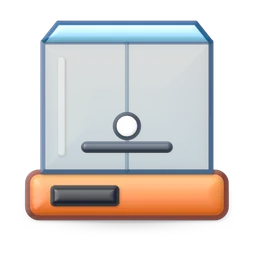
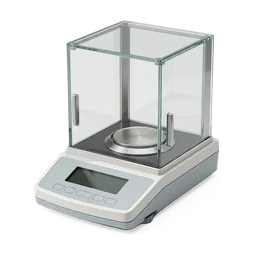
Metrología 8.17.1: prueba piloto de íconos fotorrealistas (12 imágenes del pedido 2)

diff --git a/index.html b/index.html
@@ -19,7 +19,7 @@
 
   <!-- Rutas relativas: la app también se sirve en /metrologia/ dentro del Portal Pet's Table -->
   <link rel="apple-touch-icon" sizes="180x180" href="apple-touch-icon.png?v=21">
-  <meta http-equiv="Content-Security-Policy" content="default-src 'self'; script-src 'self' https://cdn.jsdelivr.net 'sha256-lzPcFyYIS7av1YAhNWYUOF3WBxHlvObTNGr4PGUKEmE=' 'sha256-ypZDX7RgYxLFlG0fEPtoLCmPoX9tPBw+fcst6fOuLV4=' 'sha256-4Xsk8XhJlKm5WccR4HSZxXAB9xIjj3XGUJ2RqzLsJ/w='; style-src 'self' 'unsafe-inline' https://fonts.googleapis.com; font-src https://fonts.gstatic.com; img-src 'self' data: blob: https://portal-petstable.vercel.app https://domumnsezocubigfqwry.supabase.co; connect-src 'self' https://domumnsezocubigfqwry.supabase.co wss://domumnsezocubigfqwry.supabase.co; manifest-src 'self'; worker-src 'self'; base-uri 'self'; form-action 'self'; object-src 'none'">
+  <meta http-equiv="Content-Security-Policy" content="default-src 'self'; script-src 'self' https://cdn.jsdelivr.net 'sha256-lzPcFyYIS7av1YAhNWYUOF3WBxHlvObTNGr4PGUKEmE=' 'sha256-F4/N08epxz46vGhaYrOxvSsE4tT/3oseyebe8mpZI8Y=' 'sha256-OXhE6A+xwP8Xc3kfOZoIZx3mbXzraAYWJs1U9Eiuueg='; style-src 'self' 'unsafe-inline' https://fonts.googleapis.com; font-src https://fonts.gstatic.com; img-src 'self' data: blob: https://portal-petstable.vercel.app https://domumnsezocubigfqwry.supabase.co; connect-src 'self' https://domumnsezocubigfqwry.supabase.co wss://domumnsezocubigfqwry.supabase.co; manifest-src 'self'; worker-src 'self'; base-uri 'self'; form-action 'self'; object-src 'none'">
[1 lines of base64/hex data omitted]
   <link rel="manifest" href="manifest.webmanifest">
 
@@ -2722,7 +2722,7 @@ html:not(.en-portal) .portal-btn { display: none !important; }
 window.CALBAS_CONFIG = {
   SUPABASE_URL: "https://domumnsezocubigfqwry.supabase.co",
   SUPABASE_ANON_KEY: "sb_publishable_CDb37asQiekme1SuDnIANw_csZ5ZNRh",
-  APP_VERSION: "8.17.0"
+  APP_VERSION: "8.17.1"
 };</script>
   <script>(function () {
 'use strict';
@@ -3021,7 +3021,7 @@ const ICONOS_3D = new Set([ // Paquete de imágenes realistas (v1, 45 imágenes)
   'n_panel', 'n_patrones', 'n_perfil', 'n_usuarios', 'n_verificar', 'no_cumple', 'patron_ref', 'personas', 
   'por_verificar', 'potenciometro', 'reloj', 'sin_uso', 'tableta', 'termometro',
 ]);
-const ICO3D_VER = '2';
+const ICO3D_VER = '3';
 function con3d(n) { return !!n && ICONOS_3D.has(n); }
 document.addEventListener('error', (e) => {
   const img = e.target;

diff --git a/public/js/config.js b/public/js/config.js
@@ -7,5 +7,5 @@
 window.CALBAS_CONFIG = {
   SUPABASE_URL: "https://domumnsezocubigfqwry.supabase.co",
   SUPABASE_ANON_KEY: "sb_publishable_CDb37asQiekme1SuDnIANw_csZ5ZNRh",
-  APP_VERSION: "8.17.0"
+  APP_VERSION: "8.17.1"
 };
